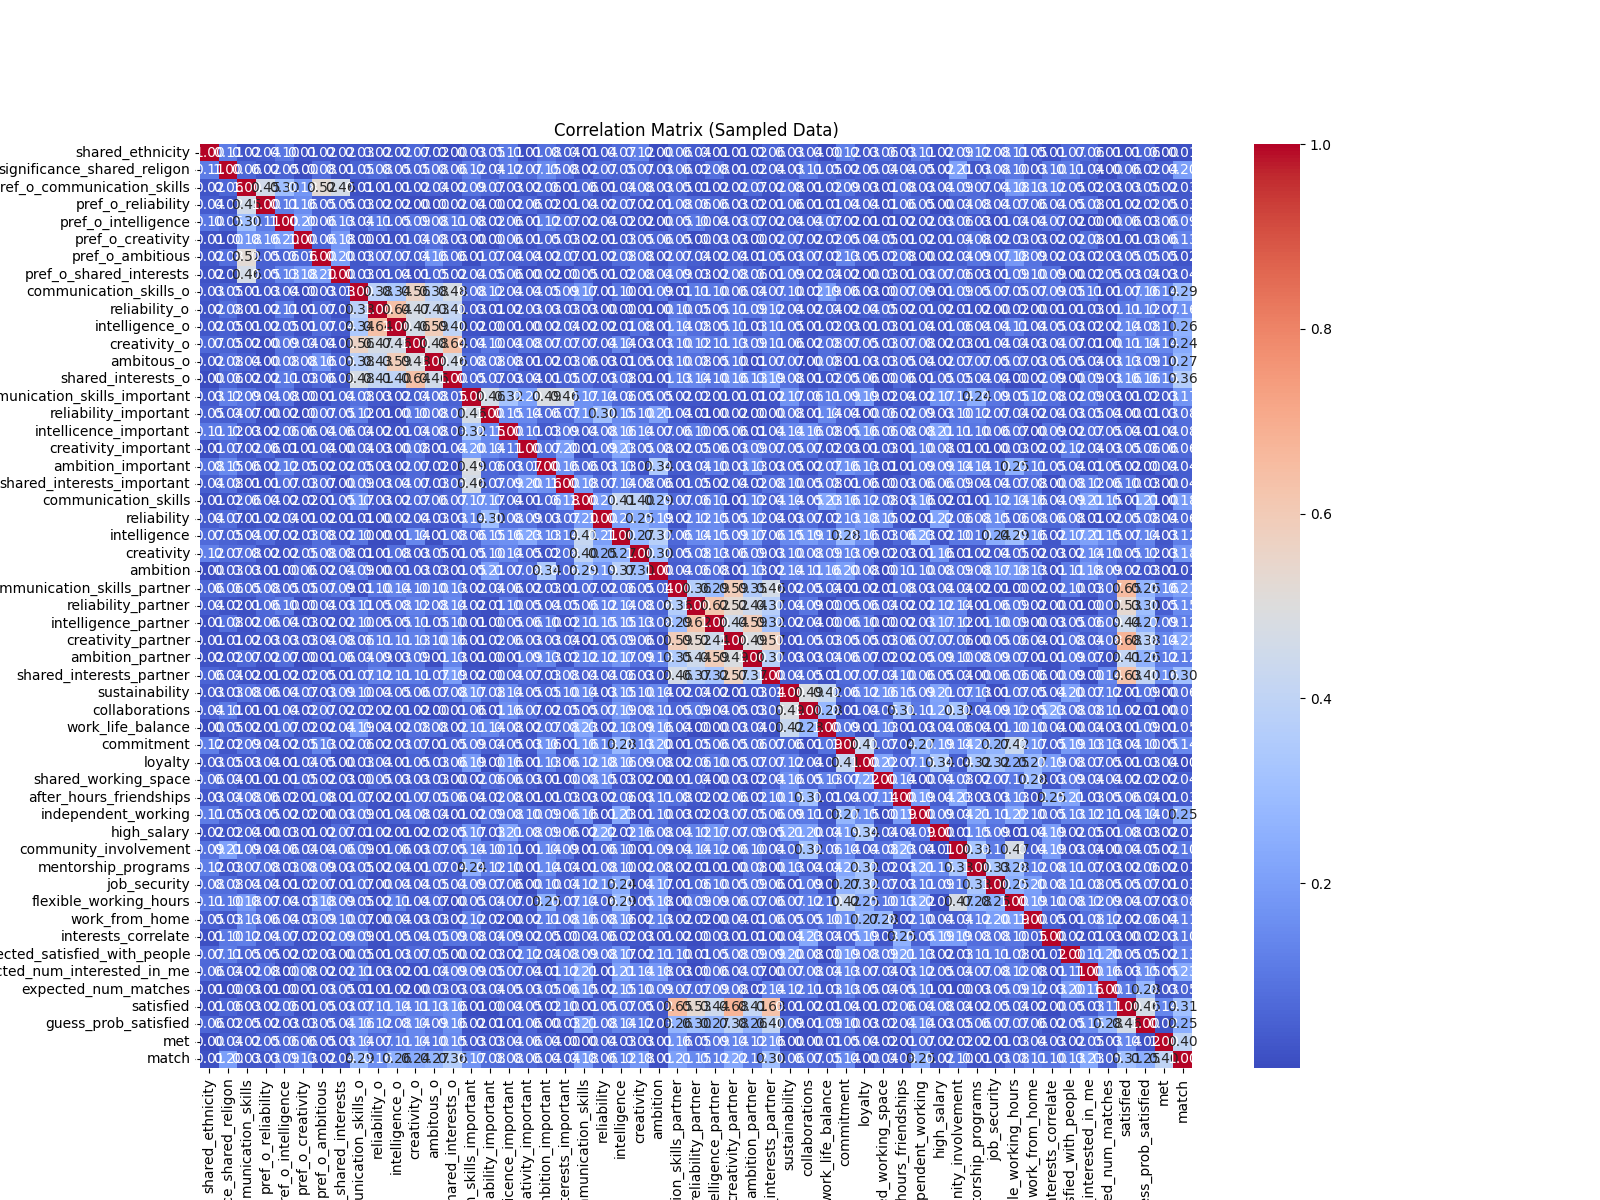
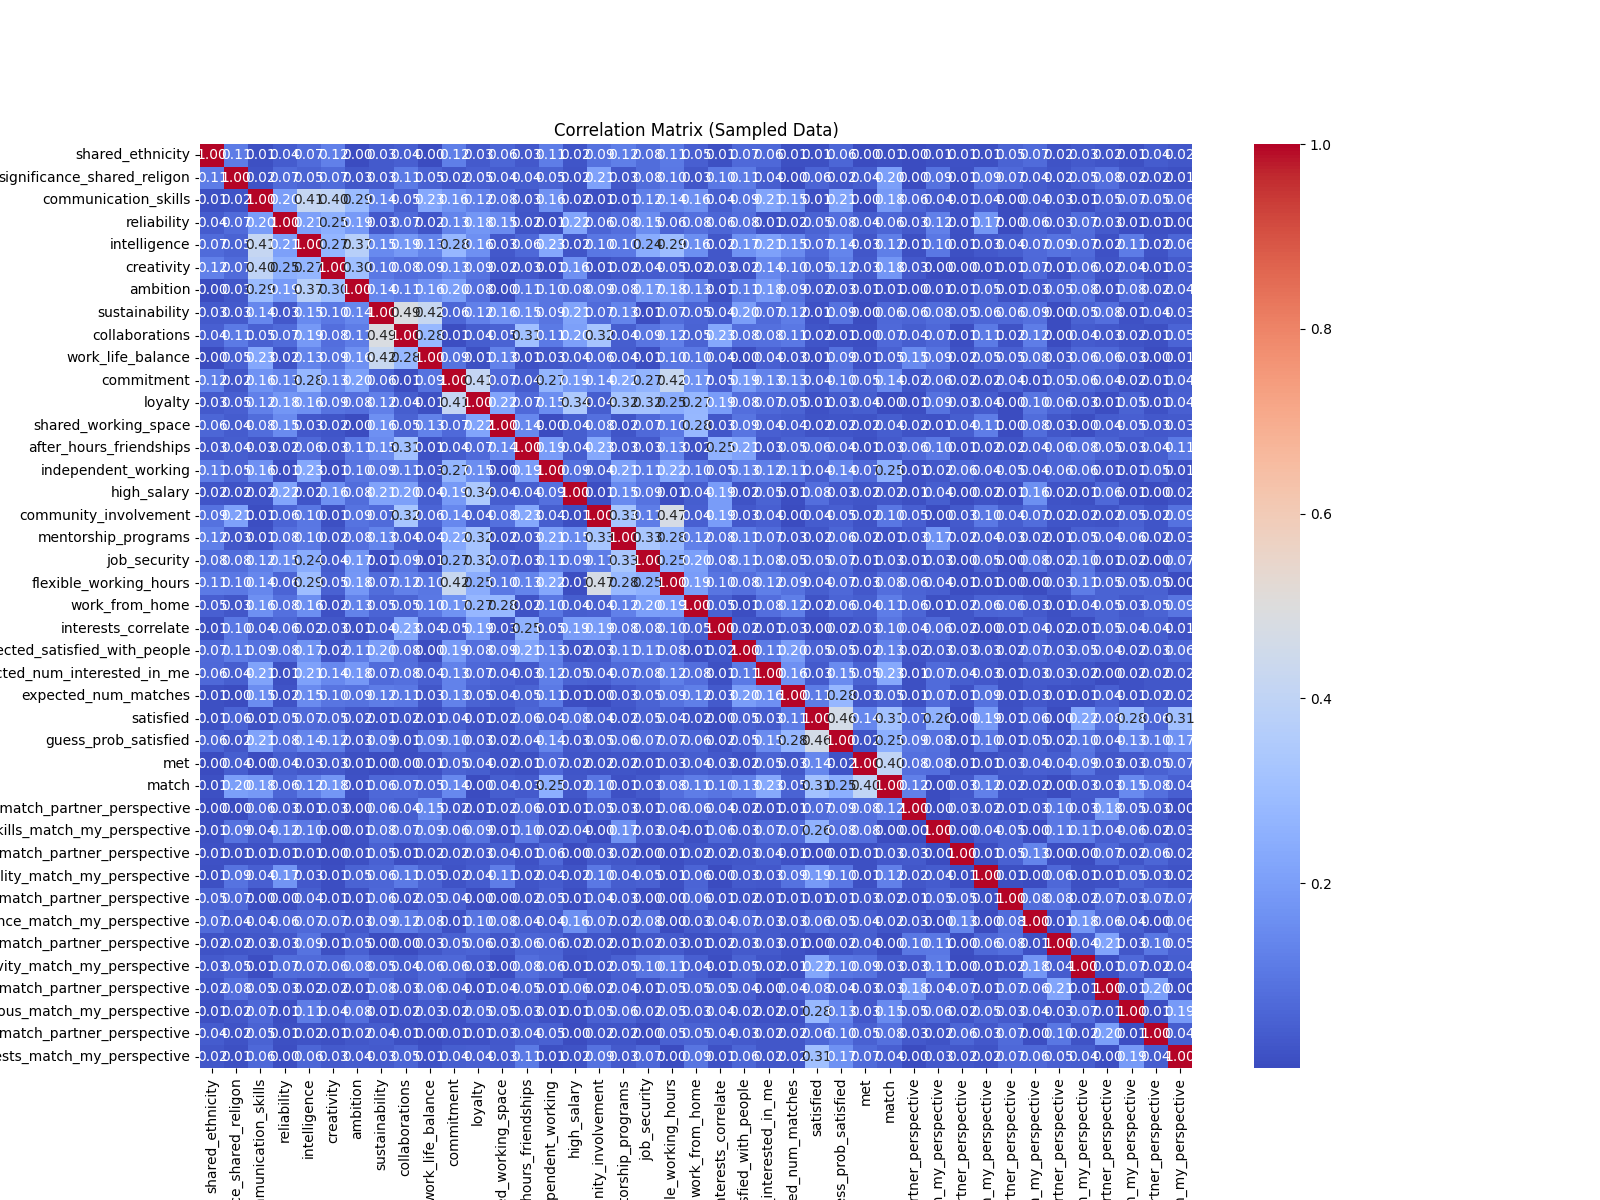
updated current graph + final pre process

diff --git a/preProcess.py b/preProcess.py
@@ -1,157 +1,3 @@
-# import pandas as pd
-# import numpy as np
-# from sklearn.feature_selection import VarianceThreshold
-# import pandas as pd
-# import numpy as np
-# from sklearn.feature_selection import VarianceThreshold
-# import seaborn as sns
-# import matplotlib.pyplot as plt
-#
-#
-# class Preprocess:
-#     def _init_(self, path):
-#         self._data = pd.read_csv(path)
-#         # self._data = pd.get_dummies(self._data)
-#
-#     def normalize_to_10(self, col):  # this might not be great yet.
-#         return (col - col.min()) / (col.max() - col.min()) * 10
-#
-#     def remove_ranges(self):
-#         return self._data[[col for col in self._data.columns if not col.startswith('d_')]]
-#
-#     def fill_majority_element_for_missing_string_values(self):
-#         for col in self._data.select_dtypes(include='object').columns:
-#             self._data[col].fillna(self._data[col].mode()[0], inplace=True)
-#
-#     def update_race_score(self):
-#         self._data['shared_ethnicity'] = self._data[
-#             'shared_ethnicity'].replace(
-#             {"b'0'": 0, "b'1'": 1})
-#         condition = (self._data['shared_ethnicity'] == 1) & (
-#                 self._data['shared_importance'] > 5)
-#         # Update shared_ethnicity based on condition
-#         self._data.loc[condition, 'significance_shared_ethnicity'] += \
-#             self._data.loc[
-#                 condition, 'significance_shared_ethnicity']
-#         condition = (self._data['shared_ethnicity'] == 1) & (
-#                 self._data['shared_importance'] <= 5)
-#         self._data.loc[condition, 'significance_shared_ethnicity'] += \
-#             (self._data.loc[
-#                 condition, 'significance_shared_ethnicity']) // 2
-#
-#         self._data.drop(columns=['significance_shared_ethnicity'])
-#
-#     def preprocess_data(self):
-#         for col in self._data.select_dtypes(include=np.number).columns:
-#             if col != 'match':  # Skip the column named 'match'
-#                 self._data[col].fillna(self._data[col].mean(), inplace=True)
-#                 self._data[col] = self.normalize_to_10(self._data[col])
-#
-#         self.fill_majority_element_for_missing_string_values()
-#
-#         # handle ranges (probably useless to keep them)
-#         self._data = self.remove_ranges()
-#
-#         # handle race
-#         self.update_race_score()
-#
-#         #TODO not sure true
-#         self._data.drop(["professional_role"])
-#         self._data.drop(["ethnic_background"])
-#         self._data.drop(["ethnic_background_o"])
-#         self._data.drop(["unique_id"])
-#         self._data.drop(["has_missing_features"])
-#         self._data.drop(["years_of_experience"])
-#         self._data.drop(["years_of_experience_o"])
-#         self._data.drop(["wave"])
-#         self._data.drop(["employee_benefits"])
-#         self._data.drop(["diversity_and_inclusion"])
-#
-#         #
-#         selector = VarianceThreshold(threshold=0.01)
-#         self._data = pd.DataFrame(selector.fit_transform(self._data), columns=self._data.columns[selector.get_support()])
-#
-#
-#
-#
-#
-# class Preprocess:
-#     def __init__(self, path):
-#         self._data = pd.read_csv(path)
-#         # self._data = pd.get_dummies(self._data)
-#
-#     def normalize_to_10(self, col):  # this might not be great yet.
-#         return (col - col.min()) / (col.max() - col.min()) * 10
-#
-#     def remove_ranges(self):
-#         return self._data[[col for col in self._data.columns if not col.startswith('d_')]]
-#
-#     def fill_majority_element_for_missing_string_values(self):
-#         for col in self._data.select_dtypes(include='object').columns:
-#             self._data[col].fillna(self._data[col].mode()[0], inplace=True)
-#
-#     def update_race_score(self):
-#         self._data['shared_ethnicity'] = self._data['shared_ethnicity'].replace({"b'0'": 0, "b'1'": 1})
-#         condition = (self._data['shared_ethnicity'] == 1) & (self._data['shared_importance'] > 5)
-#         self._data.loc[condition, 'significance_shared_ethnicity'] += self._data.loc[
-#             condition, 'significance_shared_ethnicity']
-#         condition = (self._data['shared_ethnicity'] == 1) & (self._data['shared_importance'] <= 5)
-#         self._data.loc[condition, 'significance_shared_ethnicity'] += (self._data.loc[
-#             condition, 'significance_shared_ethnicity']) // 2
-#
-#         self._data.drop(columns=['significance_shared_ethnicity'], inplace=True)
-#
-#     def preprocess_data(self):
-#         for col in self._data.select_dtypes(include=np.number).columns:
-#             if col != 'match':  # Skip the column named 'match'
-#                 self._data[col].fillna(self._data[col].mean(), inplace=True)
-#                 self._data[col] = self.normalize_to_10(self._data[col])
-#
-#         self.fill_majority_element_for_missing_string_values()
-#
-#         # handle ranges (probably useless to keep them)
-#         self._data = self.remove_ranges()
-#
-#         # handle race
-#         self.update_race_score()
-#
-#         # Drop unnecessary columns
-#         columns_to_drop = [
-#             "professional_role", "ethnic_background", "ethnic_background_o",
-#             "unique_id", "has_missing_features", "years_of_experience",
-#             "years_of_experience_o", "wave", "employee_benefits",
-#             "diversity_and_inclusion"
-#         ]
-#         self._data.drop(columns=columns_to_drop, inplace=True)
-#
-#         # Remove columns with low variance
-#         selector = VarianceThreshold(threshold=0.01)
-#         self._data = pd.DataFrame(selector.fit_transform(self._data),
-#                                   columns=self._data.columns[selector.get_support()])
-#
-#     def correlation_analysis(self, threshold=0.9):
-#         corr_matrix = self._data.corr().abs()
-#         upper = corr_matrix.where(np.triu(np.ones(corr_matrix.shape), k=1).astype(bool))
-#
-#         # Find features with correlation greater than the threshold
-#         to_drop = [column for column in upper.columns if any(upper[column] > threshold)]
-#         print("Columns to drop due to high correlation:", to_drop)
-#
-#         # Plot the heatmap
-#         plt.figure(figsize=(16, 12))
-#         sns.heatmap(corr_matrix, annot=True, cmap='coolwarm')
-#         plt.title('Correlation Matrix')
-#         plt.show()
-#
-#         return to_drop
-#
-# # Example usage:
-# # preprocess = Preprocess('/path/to/your/data.csv')
-# # preprocess.preprocess_data()
-# # columns_to_drop = preprocess.correlation_analysis()
-# # preprocess._data.drop(columns=columns_to_drop, inplace=True)
-#
-
 import pandas as pd
 import numpy as np
 from sklearn.feature_selection import VarianceThreshold
@@ -162,9 +8,9 @@ import matplotlib.pyplot as plt
 class Preprocess:
     def __init__(self, path):
         self._data = pd.read_csv(path)
-        # self._data = pd.get_dummies(self._data)
 
-    def normalize_to_10(self, col):  # this might not be great yet.
+
+    def normalize_to_10(self, col):
         return (col - col.min()) / (col.max() - col.min()) * 10
 
     def remove_ranges(self):
@@ -190,7 +36,6 @@ class Preprocess:
                            "intelligence", "creativity", "ambitious",
                            "shared_interests"]
 
-
         def calculate_match(row, x1, x2):
             pref_value = row[x1]
             other_value = row[x2]
@@ -202,8 +47,9 @@ class Preprocess:
                 return 3
             else:
                 return 2
+
         for char in characteristics:
-            char_importance_for_partner = f"pref_of_{char}"
+            char_importance_for_partner = f"pref_o_{char}"
             char_grade_of_partner_of_me = f"{char}_o"
 
             char_importance_for_me = f"{char}_important"
@@ -218,12 +64,17 @@ class Preprocess:
             self._data[new_col_partner] = self._data.apply(calculate_match,
                                                            axis=1, args=(
                     char_importance_for_me, char_grade_for_partner_from_me))
-            self._data.drop([char_importance_for_partner])
-            self._data.drop([char_grade_of_partner_of_me])
-            self._data.drop([char_importance_for_me])
-            self._data.drop([char_grade_for_partner_from_me])
+            # Debug print to check columns
+            print(f"Dropping columns: {char_importance_for_partner}, {char_grade_of_partner_of_me}, {char_importance_for_me}, {char_grade_for_partner_from_me}")
+            self._data.drop([char_importance_for_partner, char_grade_of_partner_of_me, char_importance_for_me, char_grade_for_partner_from_me], axis=1, inplace=True)
 
     def preprocess_data(self):
+        # self._data = pd.get_dummies(self._data)
+        self._data.rename(columns={'intellicence_important': 'intelligence_important'}, inplace=True)
+        self._data.rename(columns={'ambitous_o': 'ambitious_o'}, inplace=True)
+        self._data.rename(columns={'ambition_important': 'ambitious_important'}, inplace=True)
+        self._data.rename(columns={'ambition_partner': 'ambitious_partner'}, inplace=True)
+
         for col in self._data.select_dtypes(include=np.number).columns:
             if col != 'match':  # Skip the column named 'match'
                 self._data[col].fillna(self._data[col].mean(), inplace=True)
@@ -252,7 +103,7 @@ class Preprocess:
                                   columns=self._data.columns[selector.get_support()])
         self.update_characteristic_score()
 
-    def correlation_analysis(self, sample_fraction=0.15, threshold=0.5):
+    def correlation_analysis(self, sample_fraction=0.15, threshold=0.8):
         # Sample the data
         sampled_data = self._data.sample(frac=sample_fraction, random_state=1)
 
@@ -278,5 +129,3 @@ preprocess = Preprocess(r"C:\Users\mayah\Downloads\mixer_event_training.csv")
 preprocess.preprocess_data()
 columns_to_drop = preprocess.correlation_analysis(sample_fraction=0.15)
 preprocess._data.drop(columns=columns_to_drop, inplace=True)
-
-# Now you can proceed with your model training and evaluation.
